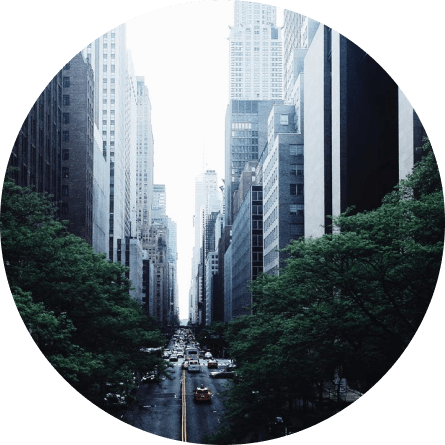
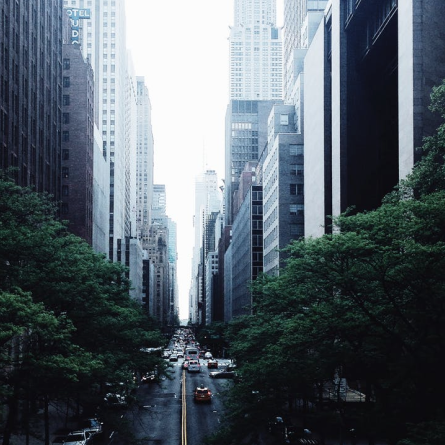
index page fully restopsive to mobile and tablet

Changed region(s): [[0.0, 0.0, 1.0, 1.0], [0.0, 0.0, 0.2921, 0.4674]]

diff --git a/css/style.css b/css/style.css
@@ -41,6 +41,11 @@ body {
    overflow: hidden;
 }
 
+img {
+   max-width: 100%;
+   height: auto;
+}
+
 .container {
    max-width: 1200px;
    margin: 0 auto;
@@ -326,25 +331,11 @@ body {
 }
 
 .features-item__photo {
-   width: 450px;
-   height: 450px;
-   background-repeat: no-repeat;
    z-index: -1;
 }
 
-.features-item__photo__girl {
-   background-image: url("/img/girl-with-tel.png");
-}
-
-.features-item__photo__city {
-   background-image: url("/img/city.png");
-}
-
-.features-item__photo__wallet {
-   background-image: url("/img/wallet.png");
+.features-item__photo-gallery {
    border-radius: 50%;
-   height: 445px;
-   width: 445px;
 }
 
 /* FOOTER */
@@ -406,6 +397,7 @@ path {
 
 .hero-mini {
    padding: 72px 0;
+   margin-top: 99px;
    background-repeat: no-repeat;
    background-size: auto, cover, cover;
    background-position: center right;
@@ -428,18 +420,6 @@ path {
       right calc(50% + 760px) top calc(50% + 157px),
       left calc(50% + 840px) top calc(50% + -306px),
       right calc(50% + 840px) top calc(50% + 300px);
-}
-
-.features-item__photo__girl-tel {
-   background-image: url("/img/girl-tel.png");
-   border-radius: 50%;
-   width: 445px;
-   height: 445px;
-}
-
-.features-item__photo__tramway {
-   background-image: url("/img/trolebus.png");
-   background-position: center center;
 }
 
 /* OUR VALUES */
@@ -626,9 +606,6 @@ input:checked .accordion-title::after {
 
 .features-item__photo__boy-tablet {
    background-image: url("/img/boy-tablet.png");
-   width: 445px;
-   height: 445px;
-   border-radius: 50%;
 }
 
 /* APPLY */
@@ -911,10 +888,6 @@ input:checked .accordion-title::after {
 /* Landscape phones and portrait tablets */
 @media (max-width: 767px) {
 
-   .body.lock {
-      overflow: hidden;
-   }
-
    .container {
       padding-left: 32px;
       padding-right: 32px;
@@ -999,8 +972,8 @@ input:checked .accordion-title::after {
    }
 
    .nav-link {
-      font-size: 18px;
-      line-height: 25px;
+      font-size: 25px;
+      line-height: 40px;
       margin-bottom: 24px;
       color: var(--white-color);
    }
@@ -1074,7 +1047,7 @@ input:checked .accordion-title::after {
    .service-item {
       text-align: center;
    }
-   
+
    .service-item:not(:last-child) {
       margin-bottom: 40px;
       margin-right: 0;
@@ -1098,9 +1071,9 @@ input:checked .accordion-title::after {
          right calc(50% + 310px) top calc(50% + -135px),
          left calc(50% + 320px) top calc(50% + 615px),
 
-         left calc(50% + 500px) top calc(50% + -1100px),
-         right calc(50% + 500px) top calc(50% + -170px),
-         left calc(50% + 500px) top calc(50% + 760px);
+         left -100%,
+         right -100%,
+         left -100%;
    }
 
    .features-list {
@@ -1134,13 +1107,12 @@ input:checked .accordion-title::after {
 
    .features-item__photo {
       margin-bottom: 0;
-      background-size: 311px;
+      max-width: 331px;
+      max-height: 331px;
       background-position: center;
    }
 
    .features-item__photo__wallet {
-      width: 311px;
-      height: 311px;
       margin-bottom: 56px;
    }
 
@@ -1150,12 +1122,13 @@ input:checked .accordion-title::after {
 
    .section-title {
       font-size: 32px;
-      line-height: 32px;   
+      line-height: 32px;
    }
 
    .content-title {
       font-size: 20px;
    }
+
    /*FOOTERE SECTION*/
 
    .appstore {

diff --git a/index.html b/index.html
@@ -109,7 +109,10 @@
                      <a class="features-item__btn primary-btn btn" href="#">Learn More</a>
                   </div>
 
-                  <div class="features-item__photo features-item__photo__girl"></div>
+                  <div class="features-item__photo">
+                     <img class="features-item__photo-gallery" src="/img/girl-with-tel.png" alt="girl-with-tel"
+                        width="445" height="445">
+                  </div>
                </li>
 
                <li class="features-item">
@@ -122,7 +125,10 @@
                      <a class="features-item__btn primary-btn btn" href="#">Learn More</a>
                   </div>
 
-                  <div class="features-item__photo features-item__photo__city"></div>
+                  <div class="features-item__photo">
+                     <img class="features-item__photo-gallery" src="/img/city.png" alt="girl-with-tel" width="445"
+                        height="445">
+                  </div>
                </li>
 
                <li class="features-item">
@@ -135,7 +141,10 @@
                      <a class="features-item__btn primary-btn btn" href="#">Learn More</a>
                   </div>
 
-                  <div class="features-item__photo features-item__photo__wallet"></div>
+                  <div class="features-item__photo">
+                     <img class="features-item__photo-gallery" src="/img/wallet.png" alt="girl-with-tel" width="445"
+                        height="445">
+                  </div>
                </li>
             </ul>
          </div>
